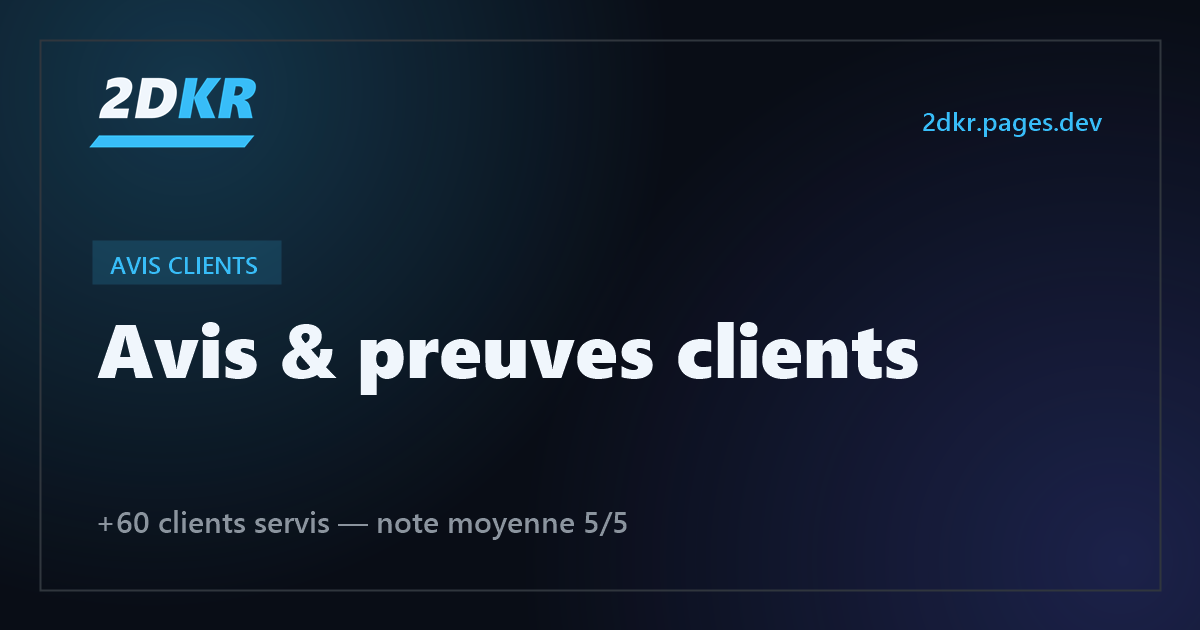
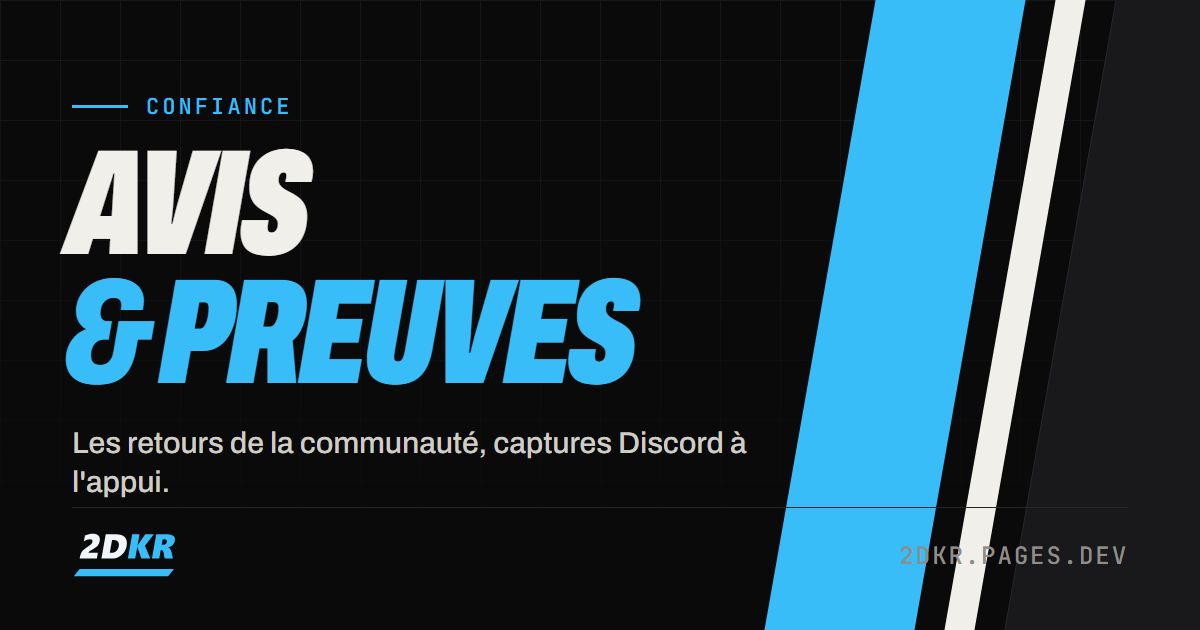
Refait les apercus OpenGraph (accueil, avis, paiements)
- Nouvelles images 1200x630 au style de la v0.7
- Retire les images des pages supprimees
- Met a jour les textes og/description, ?v=5 pour vider le cache
- Manifest : description et couleurs a jour

diff --git a/index.html b/index.html
@@ -3,16 +3,16 @@
 <head>
   <meta charset="UTF-8">
   <meta name="viewport" content="width=device-width, initial-scale=1.0">
-  <title>2DKR — Site officiel de Dekur</title>
-  <meta name="description" content="Espace officiel 2DKR by Dekur : communauté Discord, services GTA Online, offres et moyens de paiement.">
+  <title>2DKR — Mod menus GTA V | Cherax, Yari, Lexis</title>
+  <meta name="description" content="Boutique de mod menus GTA V sur PC : Cherax, Yari, Lexis. Clé livrée dans ton ticket Discord, assistance à l'installation en option.">
   <meta name="theme-color" content="#0a0a0b">
-  <meta property="og:title" content="2DKR — Espace Officiel De Dekur">
-  <meta property="og:description" content="Retrouve tous nos boosts GTA Online, véhicules moddés, tenues et packs sur mesure.">
+  <meta property="og:title" content="2DKR — Mod menus GTA V">
+  <meta property="og:description" content="Cherax, Yari, Lexis : clé livrée dans ton ticket Discord, assistance à l'installation en option.">
   <meta property="og:type" content="website">
   <meta property="og:url" content="https://2dkr.pages.dev/">
   <meta property="og:site_name" content="2DKR">
   <meta property="og:locale" content="fr_FR">
-  <meta property="og:image" content="https://2dkr.pages.dev/og/accueil.png?v=4">
+  <meta property="og:image" content="https://2dkr.pages.dev/og/accueil.png?v=5">
   <meta property="og:image:width" content="1200">
   <meta property="og:image:height" content="630">
   <meta name="twitter:card" content="summary_large_image">

diff --git a/avis.html b/avis.html
@@ -4,15 +4,15 @@
   <meta charset="UTF-8">
   <meta name="viewport" content="width=device-width, initial-scale=1.0">
   <title>Avis &amp; Preuves — 2DKR</title>
-  <meta name="description" content="Avis et preuves des clients 2DKR : retours de la communauté, note moyenne 5/5 et livraisons.">
+  <meta name="description" content="Avis et preuves des clients 2DKR : retours de la communauté et captures Discord.">
   <meta name="theme-color" content="#0a0a0b">
   <meta property="og:title" content="Avis &amp; Preuves — 2DKR">
-  <meta property="og:description" content="Avis et preuves des clients 2DKR : retours de la communauté, note moyenne 5/5 et livraisons.">
+  <meta property="og:description" content="Avis et preuves des clients 2DKR : retours de la communauté et captures Discord.">
   <meta property="og:type" content="website">
   <meta property="og:url" content="https://2dkr.pages.dev/avis.html">
   <meta property="og:site_name" content="2DKR">
   <meta property="og:locale" content="fr_FR">
-  <meta property="og:image" content="https://2dkr.pages.dev/og/avis.png?v=4">
+  <meta property="og:image" content="https://2dkr.pages.dev/og/avis.png?v=5">
   <meta name="twitter:card" content="summary_large_image">
   <link rel="canonical" href="https://2dkr.pages.dev/avis.html">
   <link rel="icon" href="favicon.svg" type="image/svg+xml">

diff --git a/paiements.html b/paiements.html
@@ -12,7 +12,7 @@
   <meta property="og:url" content="https://2dkr.pages.dev/paiements.html">
   <meta property="og:site_name" content="2DKR">
   <meta property="og:locale" content="fr_FR">
-  <meta property="og:image" content="https://2dkr.pages.dev/og/paiements.png?v=4">
+  <meta property="og:image" content="https://2dkr.pages.dev/og/paiements.png?v=5">
   <meta name="twitter:card" content="summary_large_image">
   <link rel="canonical" href="https://2dkr.pages.dev/paiements.html">
   <link rel="icon" href="favicon.svg" type="image/svg+xml">

diff --git a/404.html b/404.html
@@ -12,7 +12,7 @@
   <meta property="og:url" content="https://2dkr.pages.dev/">
   <meta property="og:site_name" content="2DKR">
   <meta property="og:locale" content="fr_FR">
-  <meta property="og:image" content="https://2dkr.pages.dev/og/accueil.png?v=4">
+  <meta property="og:image" content="https://2dkr.pages.dev/og/accueil.png?v=5">
   <meta name="twitter:card" content="summary_large_image">
   <link rel="canonical" href="https://2dkr.pages.dev/">
   <link rel="icon" href="/favicon.svg" type="image/svg+xml">
